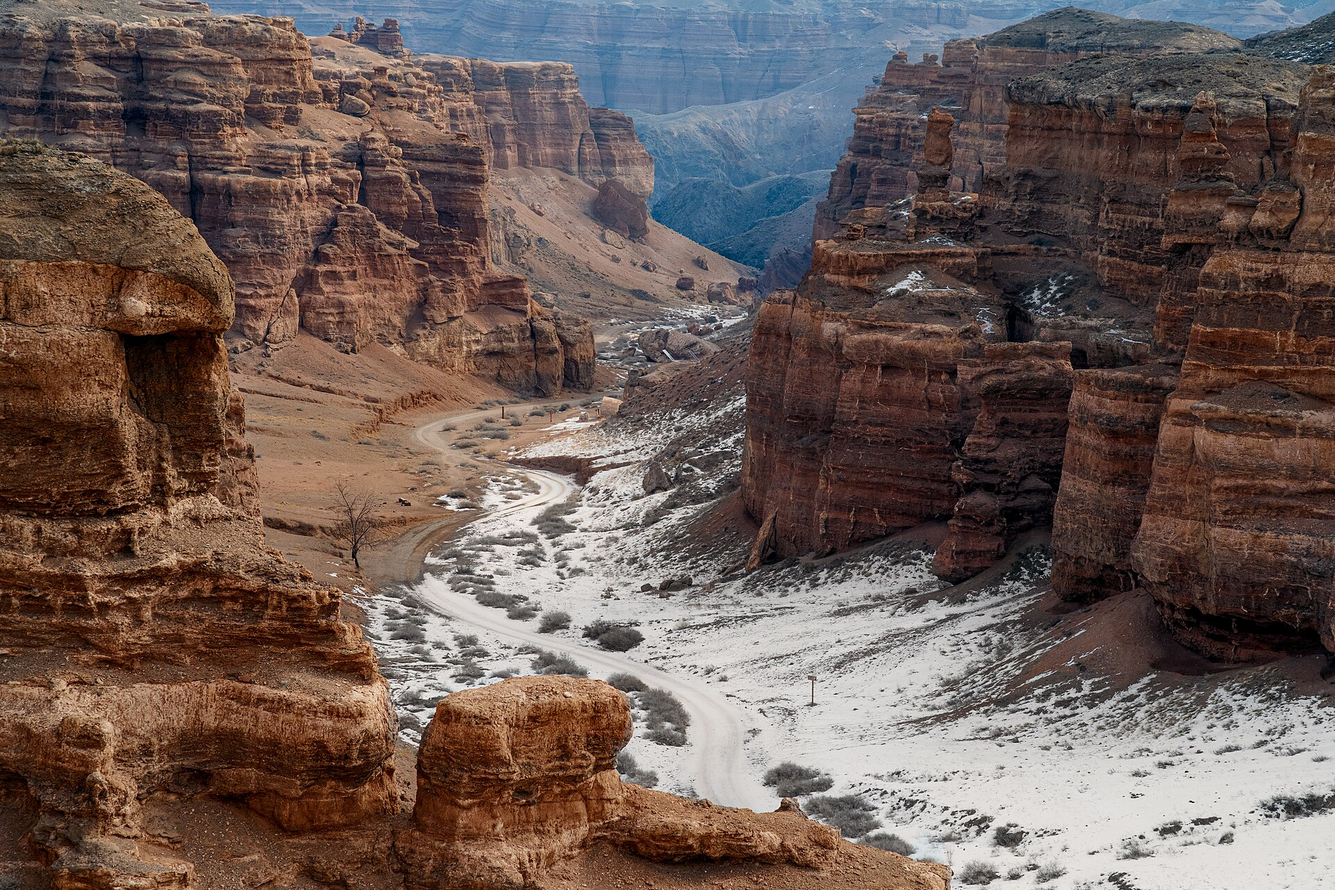
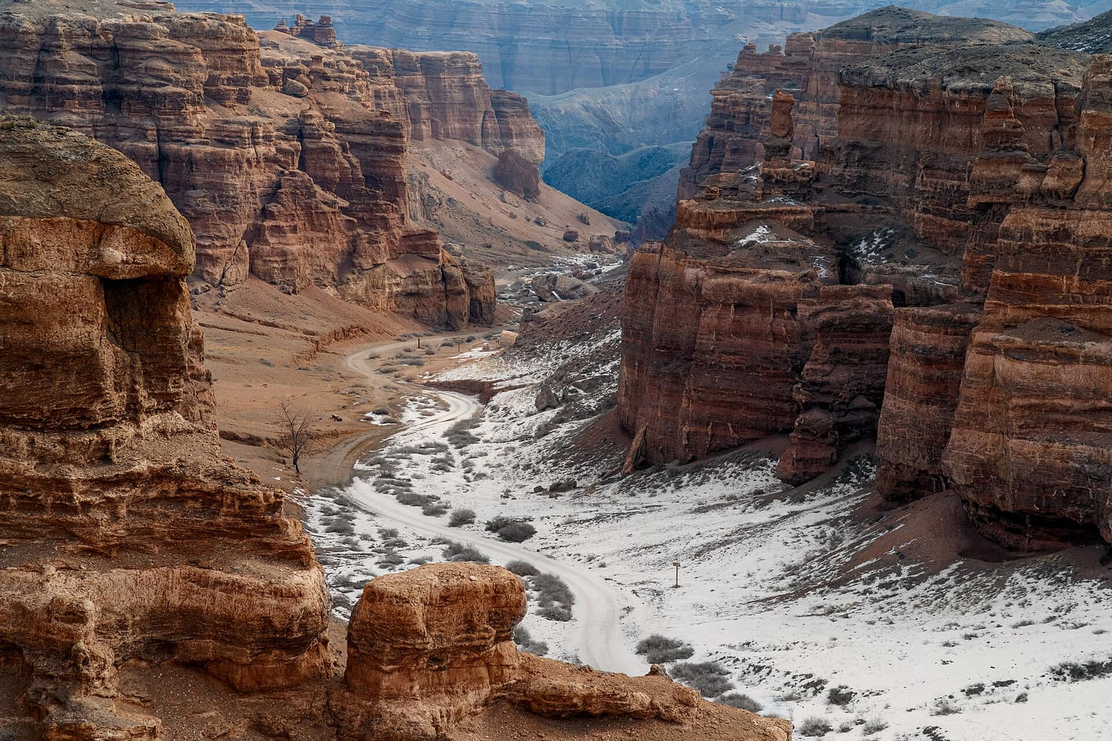
Speed and image SEO: compress photos, index destination images
- Recompress all 16 photos with mozjpeg at 1600px: 9.7MB -> 3.2MB (-67%),
  no visible quality loss. Filenames unchanged, so OG previews and CSS
  backgrounds keep working.
- Destination cards now render real <img alt="..."> instead of a CSS
  background, so the 8 homepage photos can be indexed by Google Images.
  Gradient overlay moved to ::before; hover/zoom now targets the image.
- Homepage H1 includes "tours from Almaty" naturally (EN + RU).

diff --git a/src/i18n/ui.ts b/src/i18n/ui.ts
@@ -119,7 +119,7 @@ const en = {
   'month.august': 'August',
 
   'hero.kicker': 'Group & private tours from Almaty · Kazakhstan',
-  'hero.title': 'Discover the best of Kazakhstan from Almaty',
+  'hero.title': 'Discover the best of Kazakhstan — tours from Almaty',
   'hero.sub':
     'Almatrips runs group and private tours from Almaty to Kazakhstan’s most beautiful places — canyons, alpine lakes, mountains, nomad plateaus, national parks and cultural destinations.',
   'hero.cta': 'Browse tours',
@@ -316,7 +316,7 @@ const ru: typeof en = {
   'month.august': 'Август',
 
   'hero.kicker': 'Групповые и индивидуальные туры из Алматы · Казахстан',
-  'hero.title': 'Откройте лучшее в Казахстане из Алматы',
+  'hero.title': 'Откройте лучшее в Казахстане — туры из Алматы',
   'hero.sub':
     'Almatrips проводит групповые и индивидуальные туры из Алматы к самым красивым местам Казахстана — каньоны, горные озёра, горы, кочевые плато, нацпарки и культурные места.',
   'hero.cta': 'Смотреть туры',

diff --git a/src/styles/global.css b/src/styles/global.css
@@ -1153,18 +1153,26 @@ p { margin: 0 0 1em; }
   box-shadow: var(--shadow);
 }
 
+/* real <img> so Google Images can index the destination photos */
+.dest-img {
+  position: absolute;
+  inset: 0;
+  z-index: -2;
+  width: 100%;
+  height: 100%;
+  object-fit: cover;
+  transition: transform 0.4s ease, filter 0.2s ease;
+}
+
 .dest-card::before {
   content: '';
   position: absolute;
   inset: 0;
   z-index: -1;
-  background:
-    linear-gradient(180deg, rgba(15, 28, 33, 0.1) 0%, rgba(15, 28, 33, 0.82) 100%),
-    var(--img) center / cover no-repeat;
-  transition: transform 0.4s ease;
+  background: linear-gradient(180deg, rgba(15, 28, 33, 0.1) 0%, rgba(15, 28, 33, 0.82) 100%);
 }
 
-.dest-card:hover::before { transform: scale(1.05); }
+.dest-card:hover .dest-img { transform: scale(1.05); }
 
 .dest-card h3 {
   color: #fff;
@@ -1213,8 +1221,8 @@ p { margin: 0 0 1em; }
   color: #fff;
 }
 /* deepen the photo overlay while the options show, so they read clearly */
-.dest-card:hover::before,
-.dest-card.revealed::before { filter: brightness(0.82); }
+.dest-card:hover .dest-img,
+.dest-card.revealed .dest-img { filter: brightness(0.82); }
 
 .dest-actions {
   display: flex;
